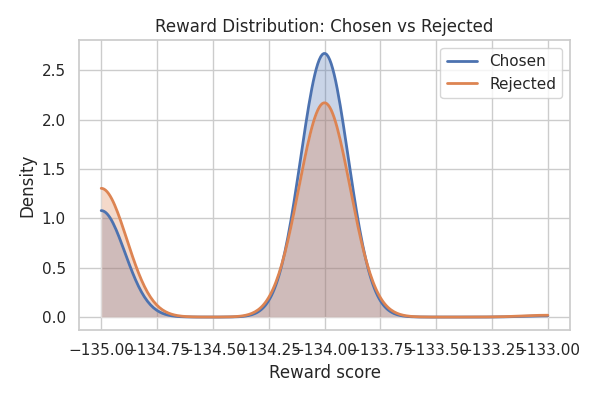
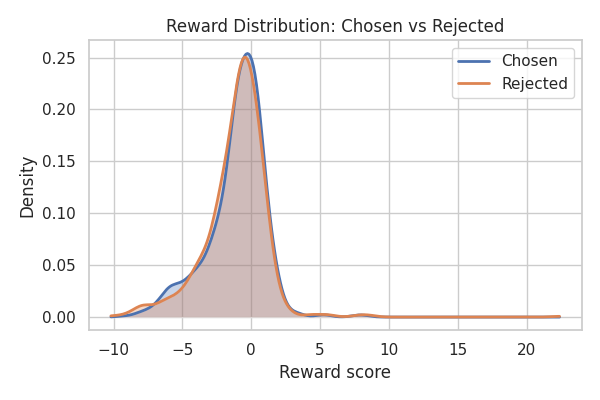
hi

diff --git a/rm_training_corrected.py b/rm_training_corrected.py
@@ -186,7 +186,7 @@ class ScriptArguments:
 
 
 class RewardTrainer(Trainer):
-    def __init__(self, *args, adv_lambda = 0.6, categories=None, **kwargs):
+    def __init__(self, *args, adv_lambda = 0.0, categories=None, **kwargs):
         super().__init__(*args, **kwargs)
         self.discriminator = Discriminator().to(self.args.device).float()  # Ensure float32
         self.optim_d = torch.optim.Adam(self.discriminator.parameters())
@@ -404,7 +404,7 @@ if __name__ == "__main__":
 
         return train_dataset, eval_dataset
 
-    train_dataset, eval_dataset = build_dataset(tokenizer, train_size=25000, eval_size=1000)
+    train_dataset, eval_dataset = build_dataset(tokenizer, train_size=200, eval_size=1000)
 
     training_args = TrainingArguments(
         output_dir=output_name,
@@ -534,9 +534,9 @@ if __name__ == "__main__":
 
 
     print("Saving last checkpoint of the model")
-    torch.distributed.barrier()
-    trainer.save_model(output_name + "/last_checkpoint")
-    tokenizer.save_pretrained(output_name + "/last_checkpoint")
+    #torch.distributed.barrier()
+    # trainer.save_model(output_name + "/last_checkpoint")
+    #tokenizer.save_pretrained(output_name + "/last_checkpoint")
 
     torch.distributed.barrier() 
 
@@ -565,8 +565,8 @@ if __name__ == "__main__":
         return out.cpu().item()
 
     # gpt generated plotting junk
-    chosen_scores   = np.array([get_reward_score(t) for t in train_dataset["text_j"]])
-    rejected_scores = np.array([get_reward_score(t) for t in train_dataset["text_k"]])
+    chosen_scores   = np.array([get_reward_score(t) for t in eval_dataset["text_j"]])
+    rejected_scores = np.array([get_reward_score(t) for t in eval_dataset["text_k"]])
 
     kde_chosen   = gaussian_kde(chosen_scores)
     kde_rejected = gaussian_kde(rejected_scores)
